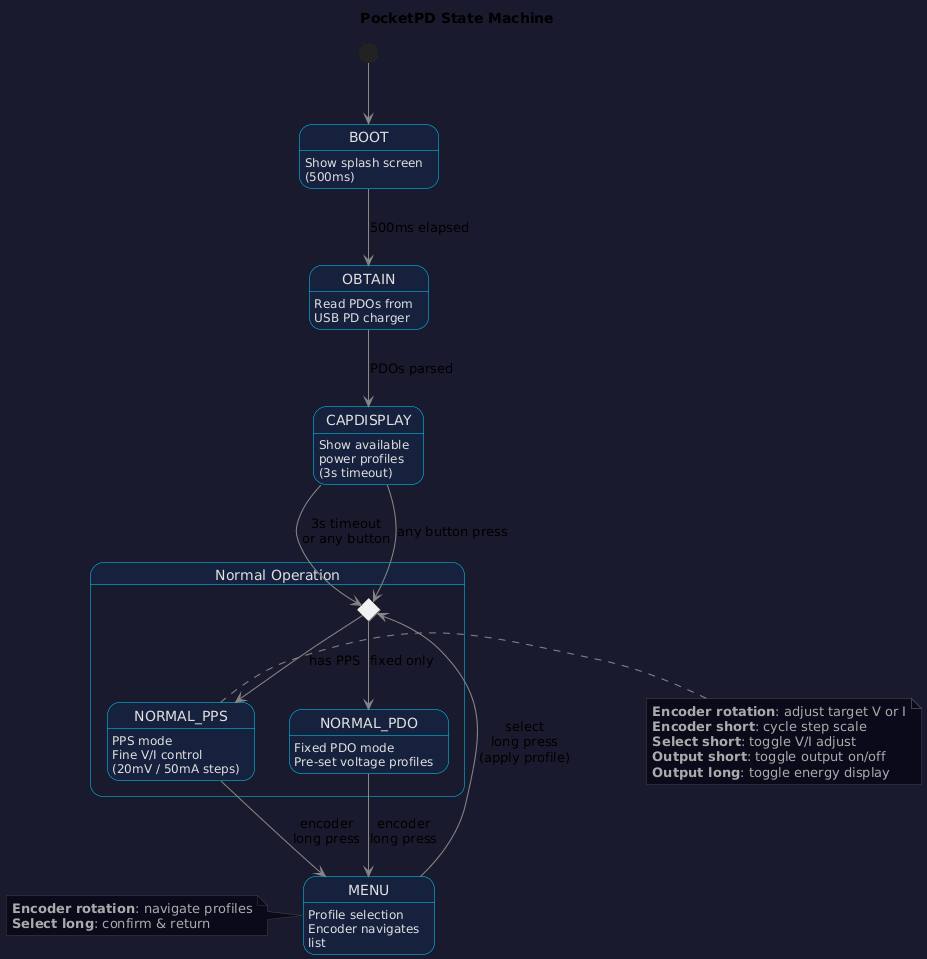
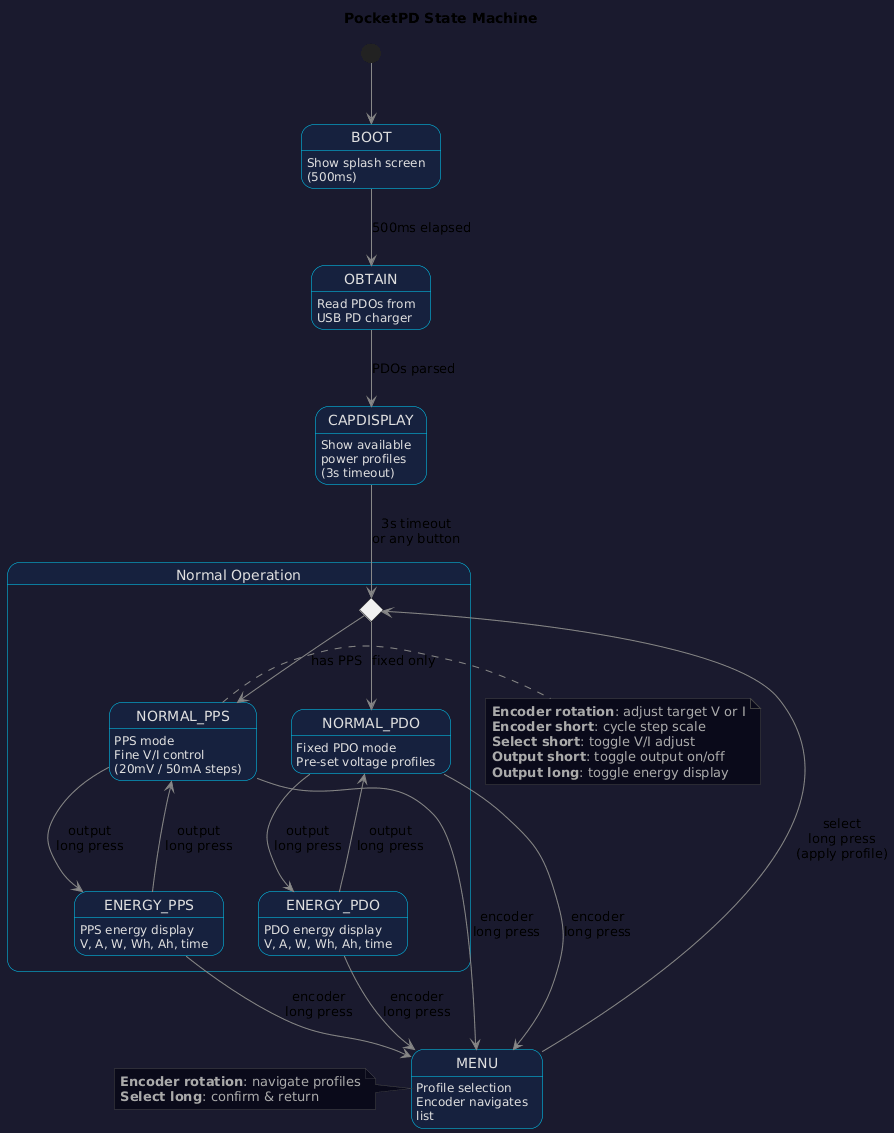
Add energy display sub-states to state machine diagrams
Both the PlantUML diagram and the embedded SVG in the simulator now
show ENERGY_PPS and ENERGY_PDO as sub-states within Normal Operation,
toggled by output long press. The live SVG highlights the energy nodes
when display_energy is true, using the combination of state index and
display_energy flag from the WebSocket status feed.

diff --git a/sim/static/index.html b/sim/static/index.html
@@ -253,7 +253,7 @@
         <!-- State Machine Diagram -->
         <div class="state-panel">
             <h2>State Machine</h2>
-            <svg id="sm-diagram" width="220" height="420" viewBox="0 0 220 420">
+            <svg id="sm-diagram" width="240" height="520" viewBox="0 0 240 520">
                 <defs>
                     <marker id="sm-arrowhead" markerWidth="8" markerHeight="6"
                             refX="8" refY="3" orient="auto">
@@ -267,70 +267,93 @@
 
                 <!-- BOOT -->
                 <g id="sm-state-0" class="sm-node">
-                    <rect x="60" y="10" width="100" height="40"/>
-                    <text x="110" y="27">BOOT</text>
-                    <text x="110" y="41" class="sm-label">splash 500ms</text>
+                    <rect x="70" y="10" width="100" height="40"/>
+                    <text x="120" y="27">BOOT</text>
+                    <text x="120" y="41" class="sm-label">splash 500ms</text>
                 </g>
-                <line id="sm-arrow-0-1" class="sm-arrow" x1="110" y1="50" x2="110" y2="70"/>
+                <line id="sm-arrow-0-1" class="sm-arrow" x1="120" y1="50" x2="120" y2="70"/>
 
                 <!-- OBTAIN -->
                 <g id="sm-state-1" class="sm-node">
-                    <rect x="60" y="70" width="100" height="40"/>
-                    <text x="110" y="87">OBTAIN</text>
-                    <text x="110" y="101" class="sm-label">read PDOs</text>
+                    <rect x="70" y="70" width="100" height="40"/>
+                    <text x="120" y="87">OBTAIN</text>
+                    <text x="120" y="101" class="sm-label">read PDOs</text>
                 </g>
-                <line id="sm-arrow-1-2" class="sm-arrow" x1="110" y1="110" x2="110" y2="130"/>
+                <line id="sm-arrow-1-2" class="sm-arrow" x1="120" y1="110" x2="120" y2="130"/>
 
                 <!-- CAPDISPLAY -->
                 <g id="sm-state-2" class="sm-node">
-                    <rect x="50" y="130" width="120" height="40"/>
-                    <text x="110" y="147">CAPDISPLAY</text>
-                    <text x="110" y="161" class="sm-label">show profiles 3s</text>
+                    <rect x="60" y="130" width="120" height="40"/>
+                    <text x="120" y="147">CAPDISPLAY</text>
+                    <text x="120" y="161" class="sm-label">show profiles 3s</text>
                 </g>
-                <line id="sm-arrow-2-c" class="sm-arrow" x1="110" y1="170" x2="110" y2="195"/>
+                <line id="sm-arrow-2-c" class="sm-arrow" x1="120" y1="170" x2="120" y2="195"/>
 
                 <!-- Choice diamond -->
-                <polygon class="sm-diamond" points="110,195 125,210 110,225 95,210"/>
+                <polygon class="sm-diamond" points="120,195 135,210 120,225 105,210"/>
 
                 <!-- Choice to NORMAL_PPS -->
-                <line id="sm-arrow-c-3" class="sm-arrow" x1="95" y1="210" x2="55" y2="250"/>
-                <text class="sm-choice-label" x="46" y="228">PPS</text>
+                <line id="sm-arrow-c-3" class="sm-arrow" x1="105" y1="210" x2="60" y2="245"/>
+                <text class="sm-choice-label" x="50" y="225">PPS</text>
 
                 <!-- Choice to NORMAL_PDO -->
-                <line id="sm-arrow-c-4" class="sm-arrow" x1="125" y1="210" x2="165" y2="250"/>
-                <text class="sm-choice-label" x="155" y="228">fixed</text>
+                <line id="sm-arrow-c-4" class="sm-arrow" x1="135" y1="210" x2="180" y2="245"/>
+                <text class="sm-choice-label" x="163" y="225">fixed</text>
 
                 <!-- NORMAL_PPS -->
                 <g id="sm-state-3" class="sm-node">
-                    <rect x="5" y="250" width="100" height="40"/>
-                    <text x="55" y="267">NORMAL_PPS</text>
-                    <text x="55" y="281" class="sm-label">fine V/I ctrl</text>
+                    <rect x="5" y="245" width="110" height="40"/>
+                    <text x="60" y="262">NORMAL_PPS</text>
+                    <text x="60" y="276" class="sm-label">fine V/I ctrl</text>
                 </g>
 
                 <!-- NORMAL_PDO -->
                 <g id="sm-state-4" class="sm-node">
-                    <rect x="115" y="250" width="100" height="40"/>
-                    <text x="165" y="267">NORMAL_PDO</text>
-                    <text x="165" y="281" class="sm-label">fixed profiles</text>
+                    <rect x="125" y="245" width="110" height="40"/>
+                    <text x="180" y="262">NORMAL_PDO</text>
+                    <text x="180" y="276" class="sm-label">fixed profiles</text>
                 </g>
 
-                <!-- NORMAL_PPS to MENU -->
-                <line id="sm-arrow-3-5" class="sm-arrow" x1="55" y1="290" x2="85" y2="340"/>
-                <!-- NORMAL_PDO to MENU -->
-                <line id="sm-arrow-4-5" class="sm-arrow" x1="165" y1="290" x2="135" y2="340"/>
-                <text class="sm-choice-label" x="28" y="320">enc long</text>
-                <text class="sm-choice-label" x="150" y="320">enc long</text>
+                <!-- NORMAL_PPS <-> ENERGY_PPS (bidirectional) -->
+                <line id="sm-arrow-3-e3" class="sm-arrow" x1="45" y1="285" x2="45" y2="335"/>
+                <line id="sm-arrow-e3-3" class="sm-arrow" x1="75" y1="335" x2="75" y2="285"/>
+                <text class="sm-choice-label" x="10" y="314">out long</text>
+
+                <!-- NORMAL_PDO <-> ENERGY_PDO (bidirectional) -->
+                <line id="sm-arrow-4-e4" class="sm-arrow" x1="165" y1="285" x2="165" y2="335"/>
+                <line id="sm-arrow-e4-4" class="sm-arrow" x1="195" y1="335" x2="195" y2="285"/>
+                <text class="sm-choice-label" x="200" y="314">out long</text>
+
+                <!-- ENERGY_PPS -->
+                <g id="sm-state-e3" class="sm-node">
+                    <rect x="5" y="335" width="110" height="40"/>
+                    <text x="60" y="352">ENERGY_PPS</text>
+                    <text x="60" y="366" class="sm-label">V A W Wh Ah</text>
+                </g>
+
+                <!-- ENERGY_PDO -->
+                <g id="sm-state-e4" class="sm-node">
+                    <rect x="125" y="335" width="110" height="40"/>
+                    <text x="180" y="352">ENERGY_PDO</text>
+                    <text x="180" y="366" class="sm-label">V A W Wh Ah</text>
+                </g>
+
+                <!-- Normal/Energy to MENU -->
+                <line id="sm-arrow-3-5" class="sm-arrow" x1="60" y1="375" x2="95" y2="425"/>
+                <line id="sm-arrow-4-5" class="sm-arrow" x1="180" y1="375" x2="145" y2="425"/>
+                <text class="sm-choice-label" x="38" y="408">enc long</text>
+                <text class="sm-choice-label" x="155" y="408">enc long</text>
 
                 <!-- MENU -->
                 <g id="sm-state-5" class="sm-node">
-                    <rect x="60" y="340" width="100" height="40"/>
-                    <text x="110" y="357">MENU</text>
-                    <text x="110" y="371" class="sm-label">select profile</text>
+                    <rect x="70" y="425" width="100" height="40"/>
+                    <text x="120" y="442">MENU</text>
+                    <text x="120" y="456" class="sm-label">select profile</text>
                 </g>
 
                 <!-- MENU back to choice (curved path up the side) -->
-                <path id="sm-arrow-5-c" class="sm-arrow" d="M 60,360 L 15,360 L 15,210 L 95,210" fill="none"/>
-                <text class="sm-choice-label" x="3" y="288">sel long</text>
+                <path id="sm-arrow-5-c" class="sm-arrow" d="M 70,445 L 18,445 L 18,210 L 105,210" fill="none"/>
+                <text class="sm-choice-label" x="3" y="330">sel long</text>
             </svg>
         </div>
     </div>

diff --git a/sim/static/app.js b/sim/static/app.js
@@ -88,25 +88,36 @@ function connectStatusWs() {
 
 // --- State Machine Diagram ---
 
-// State index to arrow path: which arrows light up when entering each state
+// All node IDs that can be highlighted
+const SM_ALL_NODES = ['sm-state-0', 'sm-state-1', 'sm-state-2', 'sm-state-3',
+    'sm-state-4', 'sm-state-5', 'sm-state-e3', 'sm-state-e4'];
+
+// Which arrows to light for each effective state key
 const SM_ARROWS = {
-    0: [],                                         // BOOT (initial)
-    1: ['sm-arrow-0-1'],                           // OBTAIN (from BOOT)
-    2: ['sm-arrow-1-2'],                           // CAPDISPLAY (from OBTAIN)
-    3: ['sm-arrow-2-c', 'sm-arrow-c-3'],           // NORMAL_PPS (from CAPDISPLAY or MENU)
-    4: ['sm-arrow-2-c', 'sm-arrow-c-4'],           // NORMAL_PDO (from CAPDISPLAY or MENU)
-    5: [],                                         // MENU (from NORMAL_*)
+    '0':  [],
+    '1':  ['sm-arrow-0-1'],
+    '2':  ['sm-arrow-1-2'],
+    '3':  ['sm-arrow-2-c', 'sm-arrow-c-3'],
+    '4':  ['sm-arrow-2-c', 'sm-arrow-c-4'],
+    '5':  ['sm-arrow-3-5', 'sm-arrow-4-5'],
+    'e3': ['sm-arrow-3-e3'],
+    'e4': ['sm-arrow-4-e4'],
 };
 
-let lastState = -1;
+let lastStateKey = '';
 
-function updateStateDiagram(stateIdx) {
-    if (stateIdx === lastState) return;
-    lastState = stateIdx;
+function updateStateDiagram(stateIdx, displayEnergy) {
+    // Compute effective state key: e3/e4 for energy sub-modes of state 3/4
+    let key = String(stateIdx);
+    if (displayEnergy && (stateIdx === 3 || stateIdx === 4)) {
+        key = 'e' + stateIdx;
+    }
+    if (key === lastStateKey) return;
+    lastStateKey = key;
 
     // Clear all active classes
-    for (let i = 0; i <= 5; i++) {
-        const node = document.getElementById('sm-state-' + i);
+    for (const id of SM_ALL_NODES) {
+        const node = document.getElementById(id);
         if (node) node.classList.remove('active');
     }
     document.querySelectorAll('.sm-arrow').forEach(el => {
@@ -114,20 +125,12 @@ function updateStateDiagram(stateIdx) {
         el.style.markerEnd = 'url(#sm-arrowhead)';
     });
 
-    // Highlight active state
-    const activeNode = document.getElementById('sm-state-' + stateIdx);
+    // Highlight active node
+    const activeNode = document.getElementById('sm-state-' + key);
     if (activeNode) activeNode.classList.add('active');
 
     // Highlight arrows leading to this state
-    const arrows = SM_ARROWS[stateIdx] || [];
-
-    // For MENU, determine which NORMAL state we came from
-    if (stateIdx === 5) {
-        // Light up the arrow from whichever normal state is present
-        // (both shown dimly, JS can't know which — light both)
-        arrows.push('sm-arrow-3-5', 'sm-arrow-4-5');
-    }
-
+    const arrows = SM_ARROWS[key] || [];
     for (const id of arrows) {
         const el = document.getElementById(id);
         if (el) {
@@ -139,7 +142,7 @@ function updateStateDiagram(stateIdx) {
 
 function updateStatus(s) {
     // State machine diagram
-    updateStateDiagram(s.state);
+    updateStateDiagram(s.state, s.display_energy);
 
     // Voltage / Current / Power
     document.getElementById('val-voltage').textContent = (s.voltage_mv / 1000).toFixed(2);
